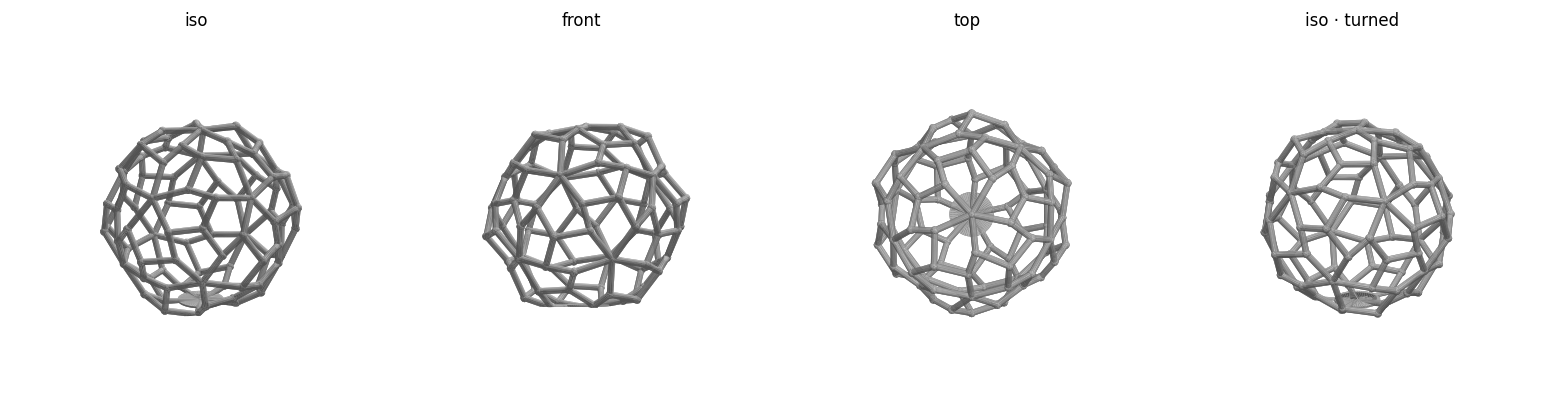
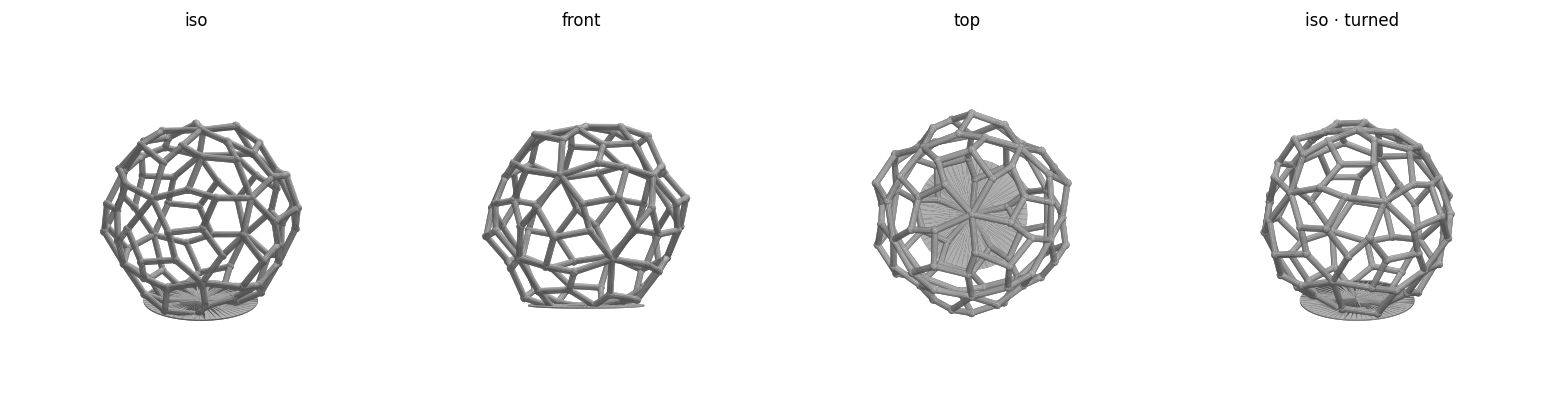
Brim revival: voronoi modeled-in brim + new pure ball-and-stick variant
The voronoi shell's 18 mm foot detached mid-print, so both print-ready
variants now carry a thin modeled-in brim fused under the base (snip off
after printing):

- voronoi/: add BRIM_D=45 x BRIM_H=0.4 mm disc in gen.py (footprint
  330 -> 1588 mm^2); keep the pre-brim Bambu Studio project as
  buckyball_bambu_project.3mf so its slicer settings survive.
- ball-and-stick/: new variant — pure C60, 60 spheres (7.5 mm) + 90
  struts (5 mm) at 75 mm, nothing flattened or clipped; pentagon-seated
  with the 5 bottom balls sunk 0.45 mm into a 48 x 0.6 mm brim disc.
  Perfectly icosahedrally symmetric once the brim is removed.

Both pass check.sh (watertight, valid 3MF, STL round-trip).

diff --git a/buckyball/voronoi/gen.py b/buckyball/voronoi/gen.py
@@ -20,6 +20,8 @@ NODE_D  = 2.2*sc            # node diameter
 FLAT    = 1.5*sc            # mm flattened off the bottom for a base
 FOOT_D  = 18.0              # small flat foot diameter (mm); 0 = none. Snip off after print.
 FOOT_H  = 0.6              # foot thickness (mm) — a few layers
+BRIM_D  = 45.0             # wide modeled-in brim diameter (mm); 0 = none. Plate adhesion.
+BRIM_H  = 0.4              # brim thickness (mm) — ~2 layers; peels off like a slicer brim
 SEED    = np.array([0.34, 0.13, 0.93])   # one generic seed (defines the cell pattern)
 
 # ---- truncated icosahedron: 60 vertices + 32 face planes -------------------
@@ -104,6 +106,12 @@ if FOOT_D>0:
 box=trimesh.creation.box(extents=[400,400,400]); box.apply_translation([0,0,zcut-200])
 mesh=trimesh.boolean.difference([mesh,box])
 mesh.apply_translation([0,0,-zcut])
+# wide thin brim fused under the base (the foot alone detached mid-print): welds to
+# the foot and the flattened lowest struts; peel/snip off after printing like a brim.
+if BRIM_D>0:
+    brim=trimesh.creation.cylinder(radius=BRIM_D/2, height=BRIM_H, sections=64)
+    brim.apply_translation([0,0,BRIM_H/2])
+    mesh=trimesh.boolean.union([mesh,brim])
 mesh.export("buckyball.stl")
 mesh.export("buckyball.3mf")     # direct, shared-vertex 3MF (preserves watertightness)
 print(f"watertight={mesh.is_watertight}  faces={len(mesh.faces)}  "

diff --git a/buckyball/ball-and-stick/PRINT_NOTES.md b/buckyball/ball-and-stick/PRINT_NOTES.md
@@ -1,0 +1,63 @@
+# Buckyball (C60) — pure ball-and-stick — print notes
+
+The **perfectly symmetric** one: 60 sphere joints + 90 cylinder struts (12 pentagons +
+20 hexagons stay see-through), with **nothing flattened or clipped anywhere**. It is held
+on the plate only by a thin **modeled-in brim** the 5 bottom balls sink 0.45 mm into.
+Snip/peel the brim off after printing and sand the 5 tiny witness dots — the ball is
+then fully icosahedrally symmetric, like a molecular model.
+
+![preview](buckyball_preview.png)
+
+## At a glance
+| | |
+|---|---|
+| Outer size | ~81 × 80 × 78 mm (75 mm across the vertices) |
+| Strut / ball | 5.0 mm / 7.5 mm |
+| Seats on | a Ø48 × 0.6 mm brim disc (≈1789 mm² footprint) — snip off after |
+| Symmetry | full icosahedral once the brim is removed |
+
+## Before printing — run the safety check
+```bash
+./check.sh        # verifies the mesh and prints size, footprint, and reminders
+```
+Then read the settings below. Do **not** print if `check.sh` reports a mesh FAIL.
+
+## Slicer settings (Bambu Studio, Bambu Lab A1)
+- **Filament:** PLA. **Layer height:** 0.2 mm. **Walls:** 2–3, no infill needed
+  (struts print as perimeters).
+- **Brim: built into the model.** The Ø48 mm disc *is* the brim — don't add another.
+- **Supports: ON, tree (auto).** With no flat anywhere, the lower-hemisphere struts and
+  ball undersides all overhang; tree supports are required. The open faces let you reach
+  in to remove them.
+- Drop on the plate as-is; the brim disc sits at z = 0.
+
+## After printing
+1. Peel/snip the brim disc off (it is only ~3 layers thick — flush cutters at the 5
+   fused patches, then it pops free).
+2. Sand the 5 small witness dots on the bottom balls smooth.
+
+## Safety checklist
+**Operation**
+- [ ] Room ventilated (molten plastic gives off fumes — PLA mild, still ventilate)
+- [ ] Aware the nozzle (~200 °C) and bed (~60 °C) are hot — don't touch during/after
+- [ ] Printer will **not** be left unattended (fire risk)
+- [ ] Watching the **first layer** — if the brim doesn't stick, cancel and re-level /
+      clean the plate
+
+**Mesh / design**
+- [ ] `check.sh` reports watertight ✓ and VALID
+- [ ] Bounding box matches the intended size (~80 mm)
+- [ ] Tree supports enabled (nothing but the brim touches the plate)
+
+## Re-tuning / regenerating
+Edit the parameters at the top of `buckyball.scad` (`diameter`, `strut_d`, `joint_d`,
+`brim_d`, `brim_h`, `bite`), then from this folder:
+```bash
+openscad -o buckyball.stl buckyball.scad                 # ~3 min (CGAL)
+/opt/anaconda3/bin/python ../../tools/preview.py buckyball.stl
+/opt/anaconda3/bin/python ../../tools/stl_to_3mf.py buckyball.stl buckyball.3mf
+./check.sh
+```
+Keep `joint_d` clearly larger than `strut_d` (≈ +1 mm or more) or the mesh develops
+non-manifold junctions — see the project `CLAUDE.md`. Keep `bite` well inside
+`brim_h` (transversal intersections, no tangent grazing).

diff --git a/buckyball/voronoi/PRINT_NOTES.md b/buckyball/voronoi/PRINT_NOTES.md
@@ -13,10 +13,12 @@ Each spherical-Voronoi edge is a thin rounded strut projected onto the C60 surfa
 | Outer size | ~77 × 80 × 71 mm (75 mm across the vertices) |
 | Pattern | 60 cells, 150 struts, 2.4 mm strut diameter |
 | Symmetry | full icosahedral, aligned to the C60 |
-| Footprint | ~330 mm² — solid (small flat foot fused under the base) |
+| Footprint | ~1588 mm² — solid (modeled-in brim + flat foot fused under the base) |
 
-A thin **flat foot** (`FOOT_D` ≈ 18 mm, `FOOT_H` 0.6 mm) is fused under the bottom for a
-rock-solid first layer; **snip/sand it off** after printing. Set `FOOT_D=0` for none.
+A thin **flat foot** (`FOOT_D` ≈ 18 mm, `FOOT_H` 0.6 mm) plus a wide **modeled-in brim**
+(`BRIM_D` 45 mm, `BRIM_H` 0.4 mm ≈ 2 layers) are fused under the bottom — the foot alone
+detached mid-print once. **Peel the brim and snip/sand the foot off** after printing.
+Set `FOOT_D=0` / `BRIM_D=0` for none.
 
 Size is set by `DIAM` at the top of `gen.py` (`python gen.py 75`); strut/node/flat all
 scale with it, so the footprint grows ~with size².
@@ -44,11 +46,12 @@ the seed on a symmetry axis.
 - **Supports: ON, tree (auto).** A thin spherical web has overhangs all over the lower
   hemisphere; tree supports are needed for a clean result. The open cells make them
   reachable for removal.
-- **Brim: not needed.** The fused flat foot gives a solid ~330 mm² base.
+- **Brim: built into the model.** A 45 mm × 0.4 mm disc is fused under the base (the
+  18 mm foot alone detached mid-print) — no slicer brim needed on top of it.
 - **Supports are still required** for the upper overhangs (a hollow sphere arcs over its
-  open cells) — the foot fixes the *base*, not the floating struts. Bambu will warn about
+  open cells) — the brim fixes the *base*, not the floating struts. Bambu will warn about
   "floating regions"; that's expected — enable tree supports and slice.
-- Drop on the plate as-is; snip the foot off after printing.
+- Drop on the plate as-is; peel the brim and snip the foot off after printing.
 
 ## Safety checklist
 **Operation**
@@ -58,4 +61,8 @@ the seed on a symmetry axis.
 
 **Mesh / design**
 - [ ] `check.sh` reports watertight ✓ and VALID
-- [ ] Supports + brim enabled (small footprint, overhangs)
+- [ ] Tree supports enabled (the brim is already in the model)
+
+> The pre-brim Bambu Studio project (with its slicer settings) is kept as
+> `buckyball_bambu_project.3mf` — open it to recover the settings, but slice the
+> regenerated `buckyball.3mf`.

diff --git a/buckyball/README.md b/buckyball/README.md
@@ -5,11 +5,15 @@ Every folder is one self-contained variant with its own source, generated
 `PRINT_NOTES.md`. They share the `../tools/` toolchain. Run `./check.sh` in a folder
 before printing.
 
-The exploration converged on **`voronoi/`** — a delicate, fully-symmetric Voronoi shell.
+The exploration converged on two print-ready siblings: **`voronoi/`** — a delicate,
+fully-symmetric Voronoi shell — and **`ball-and-stick/`** — a pure ball-and-stick C60
+with zero flats. Both are held to the plate by a thin **modeled-in brim** (snip it off
+after printing).
 
 | variant | what it is | symmetry | footprint | mesh |
 |---|---|---|---|---|
-| **`voronoi/`** ⭐ | delicate icosahedral Voronoi web on the C60 form (75 mm) | full icosahedral | 167 mm² | watertight ✓ |
+| **`voronoi/`** ⭐ | delicate icosahedral Voronoi web on the C60 form (75 mm), foot + brim | full icosahedral | 1588 mm² (brim) | watertight ✓ |
+| **`ball-and-stick/`** ⭐ | pure spheres + struts, nothing flattened, snip-off brim (75 mm) | full icosahedral (brim off) | 1789 mm² (brim) | watertight ✓ |
 | `solid/` | solid faceted soccer-ball, engraved seams | full icosahedral | flat face | 4 non-manifold seams* |
 | `edges-only/` | square-beam edge frame, **no node spheres**, pentagon-seated | 5-fold | 387 mm² | watertight ✓ |
 | `symmetric-flats/` | round-strut cage, all 12 pentagons flattened equally | full icosahedral | 203 mm² | watertight ✓ |